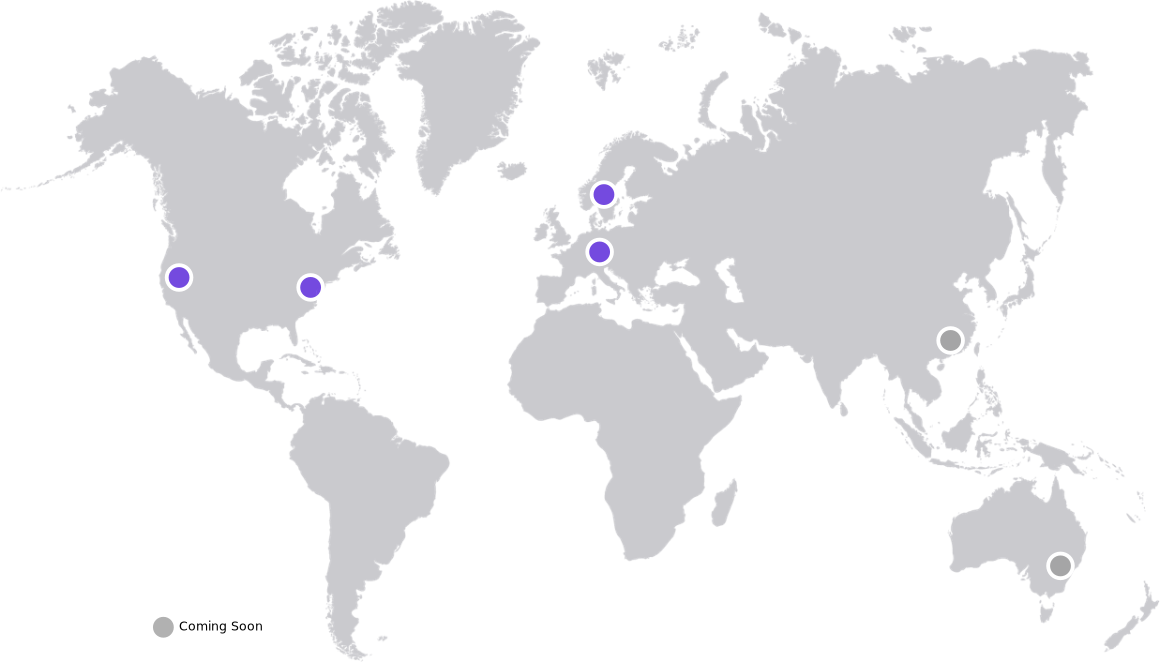
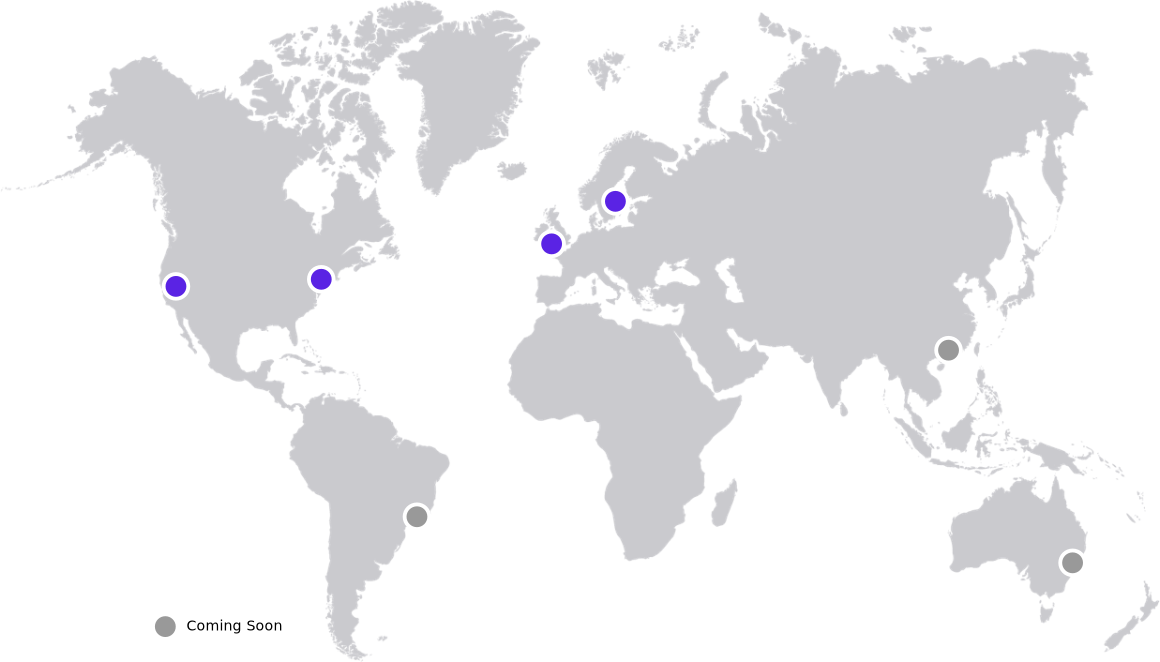
GitBook: [master] 5 pages and 2 assets modified

diff --git a/api/geo-location.md b/api/geo-location.md
@@ -22,7 +22,7 @@ The only change you need to make is to change [api.decisionrules.io](http://api.
 
 [http://eu2.api.decisionrules.io/rule/solve](http://eu2.api.decisionrules.io/rule/solve)
 
-#### USA - Ohio
+#### USA - **Virginia**
 
 [http://us1.api.decisionrules.io/rule/solve](http://us1.api.decisionrules.io/rule/solv)
 

diff --git a/decision-tables/versioning.md b/decision-tables/versioning.md
@@ -6,8 +6,6 @@ description: Versioning of decision table.
 
 ## Information
 
-Versioning is a "VIP" functionality. It is available from plan [BASIC or higher](../billing/product-plans.md).
-
 ## Create Version
 
 To create a decision table, sign in, then go to **Decision Tables** item in the sidebar menu.

diff --git a/versioning.md b/versioning.md
@@ -6,8 +6,6 @@ description: Versioning of scripting rule.
 
 ## Information
 
-Versioning is a "VIP" functionality. It is available from plan [BASIC or higher](billing/product-plans.md).
-
 ## Create Version
 
 To create a scripting rule, sign in, then go to **Scripting Rules** item in the sidebar menu.

diff --git a/decision-tables/import-and-export-rule/README.md b/decision-tables/import-and-export-rule/README.md
@@ -2,8 +2,6 @@
 
 ## Information
 
-Import & Export decision table is a "VIP" functionality. It is available from plan [BASIC or higher](../../billing/product-plans.md).
-
 ## [Import Decision Table - JSON](import-decision-table.md)
 
 Importing decision table from the JSON file.

diff --git a/import-and-export/README.md b/import-and-export/README.md
@@ -2,8 +2,6 @@
 
 ## Information
 
-Import & Export scripting rule is a "VIP" functionality. It is available from plan [BASIC or higher](../billing/product-plans.md).
-
 ## [Import Scripting Rules](import-scripting-rule.md)
 
 Importing scripting rules from the JSON file.
